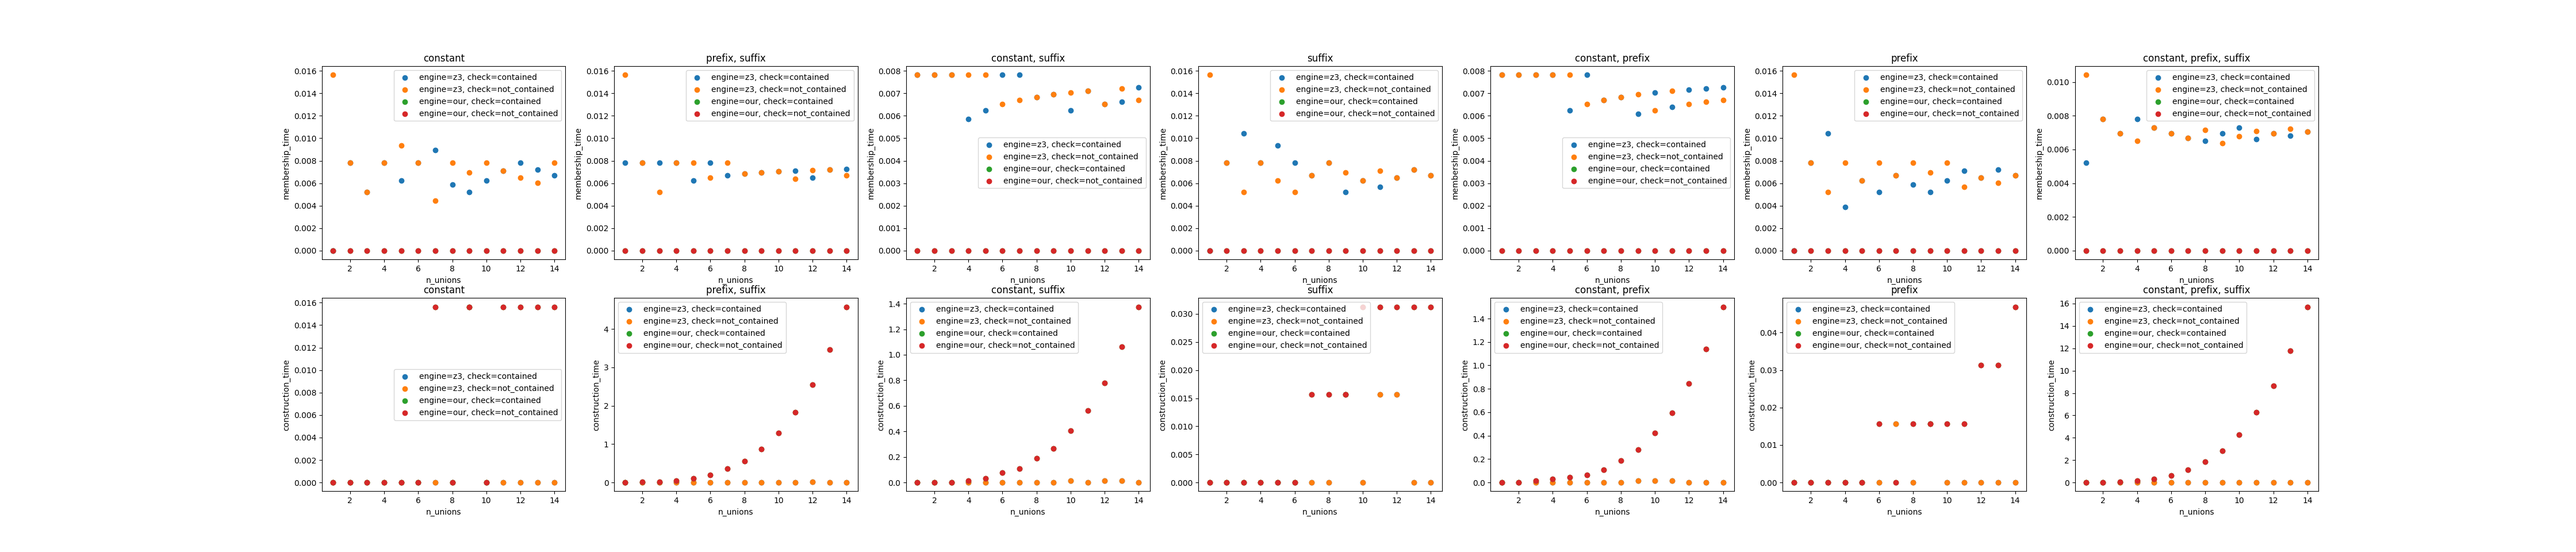
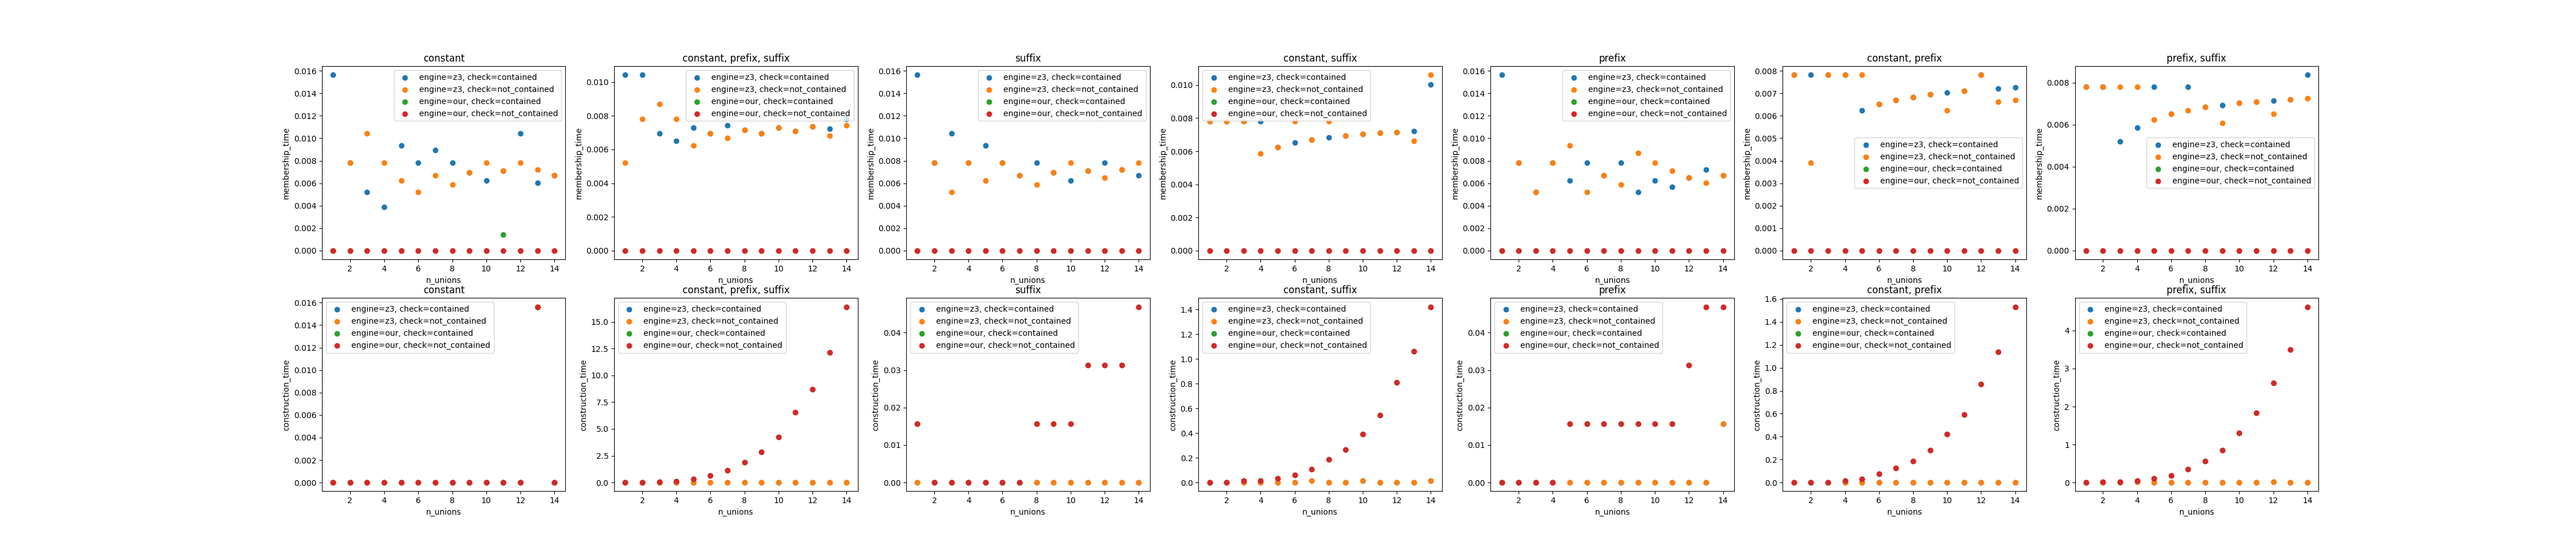
experimnts and README.md

diff --git a/smt_experiments/experiments/n_unions_string_experiment.py b/smt_experiments/experiments/n_unions_string_experiment.py
@@ -14,6 +14,7 @@ from smt_experiments.experiments.experiment_utils import Timer, CheckType, get_r
 from smt_experiments.z3_sets.z3_string_set import Z3StringSet
 
 # TODO: change instead to inplace union operations instead of not-inplace operations
+# TODO: refactor the way that experiments work.
 # TODO: test that the containment works (things that are in are in)
 # TODO: create a timeout for the experiment that will automatically stop the experiment when the time is over
 """Experiment setup:

diff --git a/smt_experiments/plots/README.md b/smt_experiments/plots/README.md
@@ -1,0 +1,50 @@
+# Experiment Results
+
+## n_dimensions_experiment:
+
+### description:
+This experiment is measuring the *creation time* and 
+*membership time* for hyper-cube-sets, using z3 and our 
+implementation.
+- time is in seconds.
+- the titles `constant`, `linear` and `exponential`
+refers to the number how many cubes there are in relation to the number 
+of dimensions. 
+  - `constant` there is always 1 cube,
+  - `linear` same number of cubes as the number of dimensions
+  - `exponential` 2^(#dimensions) cubes.
+- We distinguish between the time it takes to test if an element is in the set (contained)
+and if element is not in the set (not_contained)
+
+### Notes on results:
+- membership check time is bigger in Z3 than in our implementation in the 
+`constant` and `linear` number of cubes. in the `exponential` number of cubes we see
+an exponential time increase with Z3. It takes 0.2 seconds with 15 dimensions (the most we tried)
+- the creation time of the two sets is almost the same in `constant`,
+but in `linear` it seems that the creation time in Z3 becomes better than 
+ours at around 10 dimensions. in 15 dimensions, z3 creation time is 0.03, and ours is ~0.06.
+- in `exponential` it seems that the creation time is exponential with both sets, but the hyper cube 
+seems to be growing much faster, taking 160 second in 15 dimensions compared to ~50 seconds with z3.
+
+## n_unions_string_experiment
+In this experiment I compare between the creation time and membership check time of
+string sets represented by Z3 and MinDFA.
+
+I generate the sets by taking a union of any combination of the following base sets:
+1. constant - a singleton containing only a single string.
+2. prefix - any string that starts with some string
+3. suffix - any string that ends with some string
+
+I distinguish between membership test when the result is True and when it is False.
+
+### Notes on results:
+- membership test time seems to be pretty constant, around 0.01 seconds for z3 and 
+order of magnitude smaller for our implementation (in the graph appears to be 0)
+- the creation time for z3 seems to remain pretty constant (probably linear), but with our implementation it 
+seems to grow exponentially, especially when we use prefix or suffix.
+and gets to 15 seconds when 3 modes are combined (prefix, suffix and constant) with 14 unions 
+(which is actually 14 * 3 unions since we have a different set for each mode)
+
+
+
+

diff --git a/smt_experiments/README.md b/smt_experiments/README.md
@@ -1,3 +1,3 @@
 - I'm going to use matplotlib in order to draw the figures.
 - install matplotlib https://matplotlib.org/stable/users/installing/index.html
-- 
+
